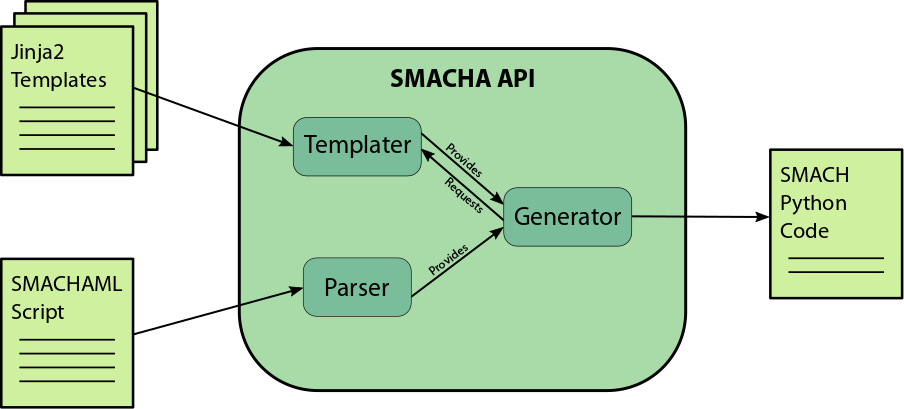
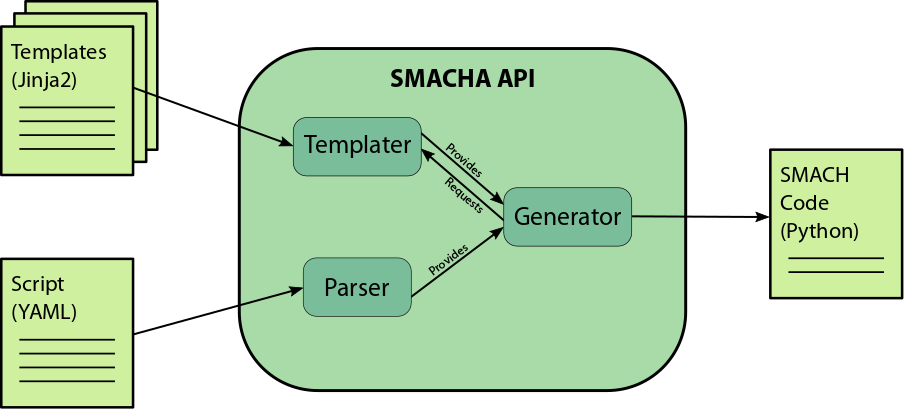
Rename 'SMACHAML' to 'SMACHA Script' everywhere
'SMACHAML' was more likely to cause confusion amongst users.
Just referring to the scripts as 'SMACHA Scripts' or 'YAML Scripts'
is likely to be a lotor 'YAML Scripts'or 'YAML Scripts' clearer
overall.

diff --git a/test/executive_smach_tutorials.py b/test/executive_smach_tutorials.py
@@ -20,14 +20,14 @@ class TestGenerator(unittest.TestCase):
         self._base_path = os.path.dirname(os.path.abspath(__file__))
         super(TestGenerator, self).__init__(*args, **kwargs)
     
-    def _generate(self, smachaml_filename, template_dirs):
-        """Generate smach code using smachaml file and templates."""
+    def _generate(self, smacha_script_filename, template_dirs):
+        """Generate smach code using smacha yaml script file and templates."""
         # Load parser
         parser = smacha.Parser()
         
-        # Load and parse smachaml script
-        with open(smachaml_filename) as smachaml_file:
-            smachaml_script = parser.parse(smachaml_file)
+        # Load and parse smacha yaml script
+        with open(smacha_script_filename) as smacha_script_file:
+            smacha_script = parser.parse(smacha_script_file)
         
         # Load template processor
         templater = smacha.Templater(template_dirs)
@@ -36,13 +36,13 @@ class TestGenerator(unittest.TestCase):
         generator = smacha.Generator(templater, verbose=False)
         
         # Generate the SMACH code
-        smach_code = generator.run(smachaml_script)
+        smach_code = generator.run(smacha_script)
         
         # Write the final output to a SMACH python file
         if self.write_output_files:
-            with open(smachaml_filename + '.py', 'w') as smach_file:
+            with open(smacha_script_filename + '.py', 'w') as smach_file:
                 smach_file.write(smach_code)
-            os.chmod(smachaml_filename + '.py',
+            os.chmod(smacha_script_filename + '.py',
                         stat.S_IRUSR | stat.S_IWUSR | stat.S_IXUSR |
                         stat.S_IRGRP | stat.S_IXGRP)
 
@@ -90,48 +90,48 @@ class TestGenerator(unittest.TestCase):
     def test_state_machine2(self):
         """Test state_machine2.py"""
         with open(self._base_path + '/executive_smach_tutorials/smach_tutorials/examples/state_machine2.py') as original_file:
-            generated_code = self._generate(self._base_path + '/smachaml/executive_smach_tutorials/state_machine2.yml',
-                                            [self._base_path + '/templates/executive_smach_tutorials'])
+            generated_code = self._generate(self._base_path + '/smacha_scripts/executive_smach_tutorials/state_machine2.yml',
+                                            [self._base_path + '/smacha_templates/executive_smach_tutorials'])
             original_code = original_file.read()
             self.assertTrue(self._compare(generated_code, original_code, file_a='generated', file_b='original'))
     
     def test_user_data2(self):
         """Test user_data2.py"""
         with open(self._base_path + '/executive_smach_tutorials/smach_tutorials/examples/user_data2.py') as original_file:
-            generated_code = self._generate(self._base_path + '/smachaml/executive_smach_tutorials/user_data2.yml',
-                                            [self._base_path + '/templates/executive_smach_tutorials'])
+            generated_code = self._generate(self._base_path + '/smacha_scripts/executive_smach_tutorials/user_data2.yml',
+                                            [self._base_path + '/smacha_templates/executive_smach_tutorials'])
             original_code = original_file.read()
             self.assertTrue(self._compare(generated_code, original_code, file_a='generated', file_b='original'))
     
     def test_state_machine_nesting2(self):
         """Test state_machine_nesting2.py"""
         with open(self._base_path + '/executive_smach_tutorials/smach_tutorials/examples/state_machine_nesting2.py') as original_file:
-            generated_code = self._generate(self._base_path + '/smachaml/executive_smach_tutorials/state_machine_nesting2.yml',
-                                            [self._base_path + '/templates/executive_smach_tutorials'])
+            generated_code = self._generate(self._base_path + '/smacha_scripts/executive_smach_tutorials/state_machine_nesting2.yml',
+                                            [self._base_path + '/smacha_templates/executive_smach_tutorials'])
             original_code = original_file.read()
             self.assertTrue(self._compare(generated_code, original_code, file_a='generated', file_b='original'))
     
     def test_concurrence2(self):
         """Test concurrence2.py"""
         with open(self._base_path + '/executive_smach_tutorials/smach_tutorials/examples/concurrence2.py') as original_file:
-            generated_code = self._generate(self._base_path + '/smachaml/executive_smach_tutorials/concurrence2.yml',
-                                            [self._base_path + '/templates/executive_smach_tutorials'])
+            generated_code = self._generate(self._base_path + '/smacha_scripts/executive_smach_tutorials/concurrence2.yml',
+                                            [self._base_path + '/smacha_templates/executive_smach_tutorials'])
             original_code = original_file.read()
             self.assertTrue(self._compare(generated_code, original_code, file_a='generated', file_b='original'))
     
     def test_actionlib2_test(self):
         """Test actionlib2_test.py"""
         with open(self._base_path + '/executive_smach_tutorials/smach_tutorials/examples/actionlib2_test.py') as original_file:
-            generated_code = self._generate(self._base_path + '/smachaml/executive_smach_tutorials/actionlib2_test.yml',
-                                            [self._base_path + '/templates/executive_smach_tutorials'])
+            generated_code = self._generate(self._base_path + '/smacha_scripts/executive_smach_tutorials/actionlib2_test.yml',
+                                            [self._base_path + '/smacha_templates/executive_smach_tutorials'])
             original_code = original_file.read()
             self.assertTrue(self._compare(generated_code, original_code, file_a='generated', file_b='original'))
     
     def test_service_test(self):
         """Test service_test.py"""
         with open(self._base_path + '/executive_smach_tutorials/smach_tutorials/examples/service_test.py') as original_file:
-            generated_code = self._generate(self._base_path + '/smachaml/executive_smach_tutorials/service_test.yml',
-                                            [self._base_path + '/templates/executive_smach_tutorials'])
+            generated_code = self._generate(self._base_path + '/smacha_scripts/executive_smach_tutorials/service_test.yml',
+                                            [self._base_path + '/smacha_templates/executive_smach_tutorials'])
             original_code = original_file.read()
             self.assertTrue(self._compare(generated_code, original_code, file_a='generated', file_b='original'))
 

diff --git a/README.md b/README.md
@@ -17,13 +17,13 @@ templates and a custom code generation engine in the background.
 
 ![SMACHA API Overview](doc/smacha_overview.png "SMACHA API Overview")
 
-## SMACHAML Scripting
+## SMACHA Scripts
 
-SMACHAML ("SMACH As Markup Language", pronounced "smashamel") scripts are YAML scripts for describing how SMACHA should
+SMACHA scripts are YAML files that describe how SMACHA should
 generate SMACH code. Here is the ["Nesting State Machines" example](http://wiki.ros.org/smach/Tutorials/Nesting%20State%20Machines)
-from the [SMACH Tutorials](http://wiki.ros.org/smach/Tutorials) described in SMACHAML:
+from the [SMACH Tutorials](http://wiki.ros.org/smach/Tutorials) described in a SMACHA script:
 ```yaml
---- # Nesting State Machines Tutorial SMACHAML script.
+--- # Nesting State Machines Tutorial SMACHA script.
 name: sm_top
 template: Base
 manifest: smach_tutorials
@@ -45,7 +45,7 @@ states:
             template: Bar
             transitions: {outcome1: FOO}
 ```
-This demonstrates a reduction from 80 lines of raw SMACH code to 20 lines of SMACHAML. Nice.
+This demonstrates a reduction from 80 lines of raw SMACH code to 20 lines of SMACHA script. Nice.
 
 
 ### Base Variables
@@ -88,7 +88,7 @@ Input-output remappings (not shown in the above example; see the [SMACH User Dat
 
 [Jinja2](http://jinja.pocoo.org/docs/2.9/) is a powerful template engine for Python.
 Jinja2 templates are used to specify how code should be
-generated from SMACHAML scripts.
+generated from SMACHA scripts.
 The `Base` template from the above example is specified in a `Base.jinja` file and looks like this:
 
 ```python
@@ -236,7 +236,7 @@ specified by the parent template will be rendered at its position in the child t
 Caveats: if a state template contains blocks, but does not contain an `{{ extends }}` expression at
 the top of a template, it is implied that the code for the blocks will be rendered into
 variables and blocks with the same names as the blocks in the state template as dictated
-by the SMACHAML script and as defined usually either by the base template or container templates.
+by the SMACHA script and as defined usually either by the base template or container templates.
 This behaviour is specific to SMACHA and is not present in Jinja2.
 See the [Core Code Generation Variables and Code Blocks Section](#core-code-generation-variables-and-code-blocks)
 for examples of how this behaviour works with core code generation variables and blocks.
@@ -247,7 +247,7 @@ included when generating code via the command-line in practice.
 
 ## Code Generation Engine
 
-The SMACHA code generator is a Python API that recursively processes SMACHAML scripts,
+The SMACHA code generator is a Python API that recursively processes SMACHA scripts,
 manages Python code templates, and renders them to Python SMACH code.
 
 The API can either be imported and used in Python projects or invoked as a command-line
@@ -266,7 +266,7 @@ root of the workspace.
 
 ## Usage
 In the simplest case, using default core templates, SMACHA can be invoked on a `my_script.yml`
-SMACHAML file as follows:
+SMACHA script file as follows:
 ```
 rosrun smacha smacha my_script.yml
 ```
